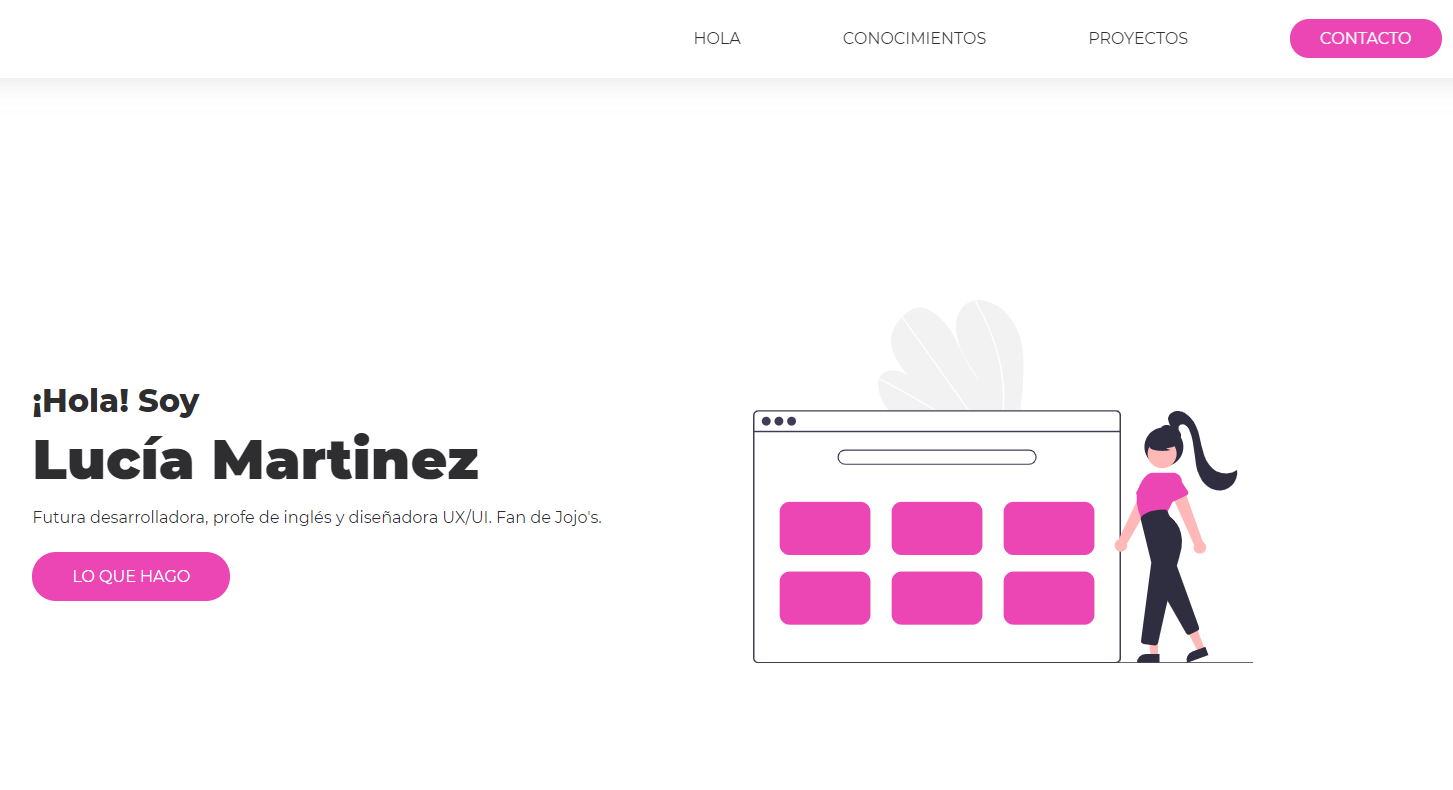
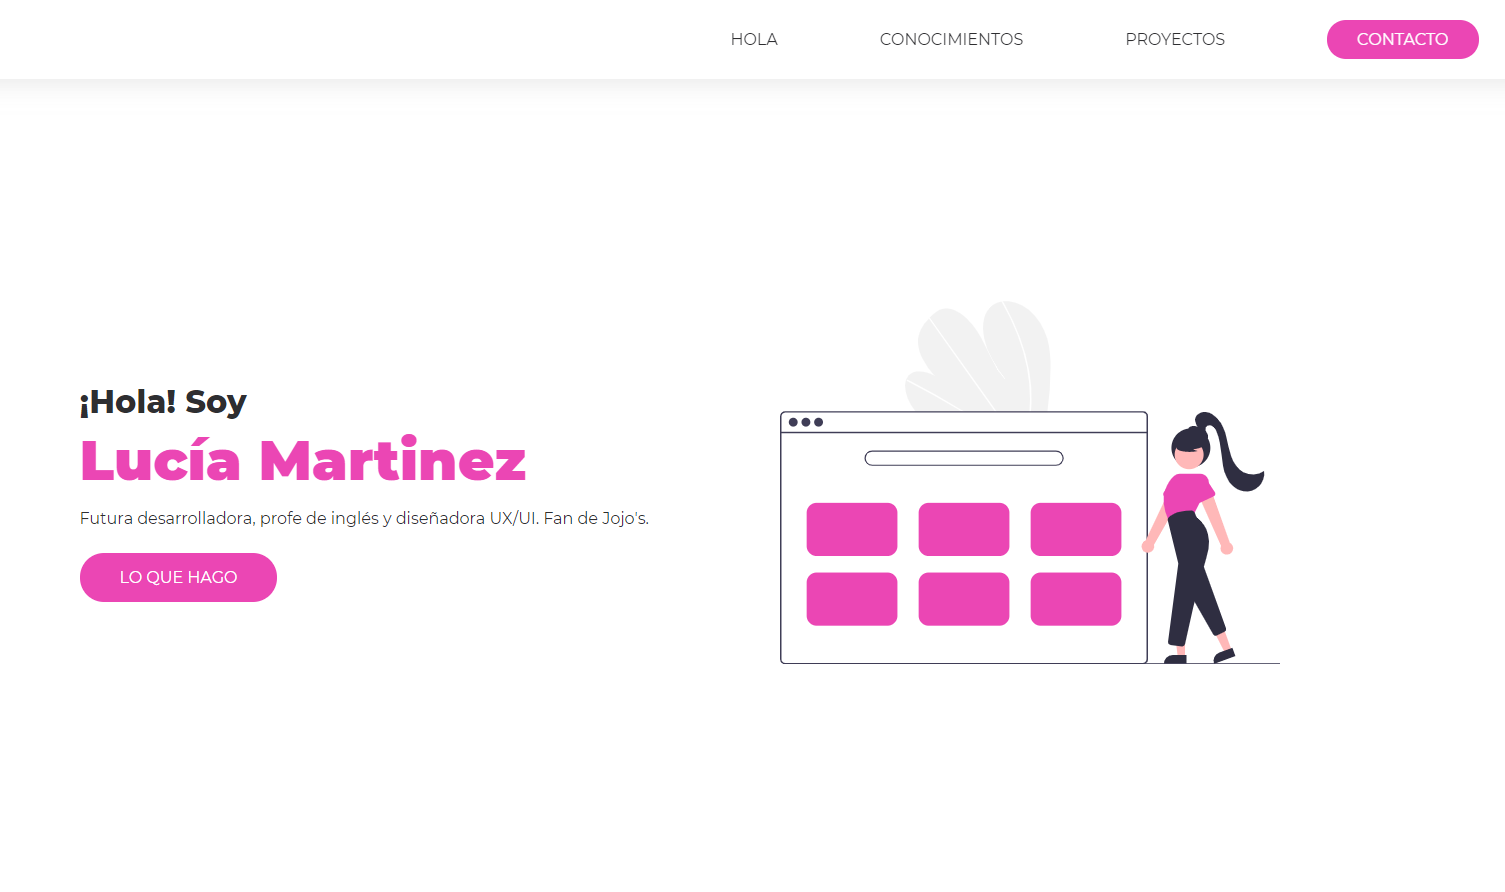
sexto commit ultimando detalles

diff --git a/css/proyectos.css b/css/proyectos.css
@@ -16,6 +16,10 @@
         justify-content: center;
     }
 
+    .img-proyecto{
+        margin-top: 15px;
+    }
+
     .quote .columna {
         font-size: .9em;
     }

diff --git a/css/hola.css b/css/hola.css
@@ -42,6 +42,6 @@ img {
 
     .img img {
         max-width: 300px;
-        margin-top: 90px;
+        margin-top: 80px;
     }
 }
